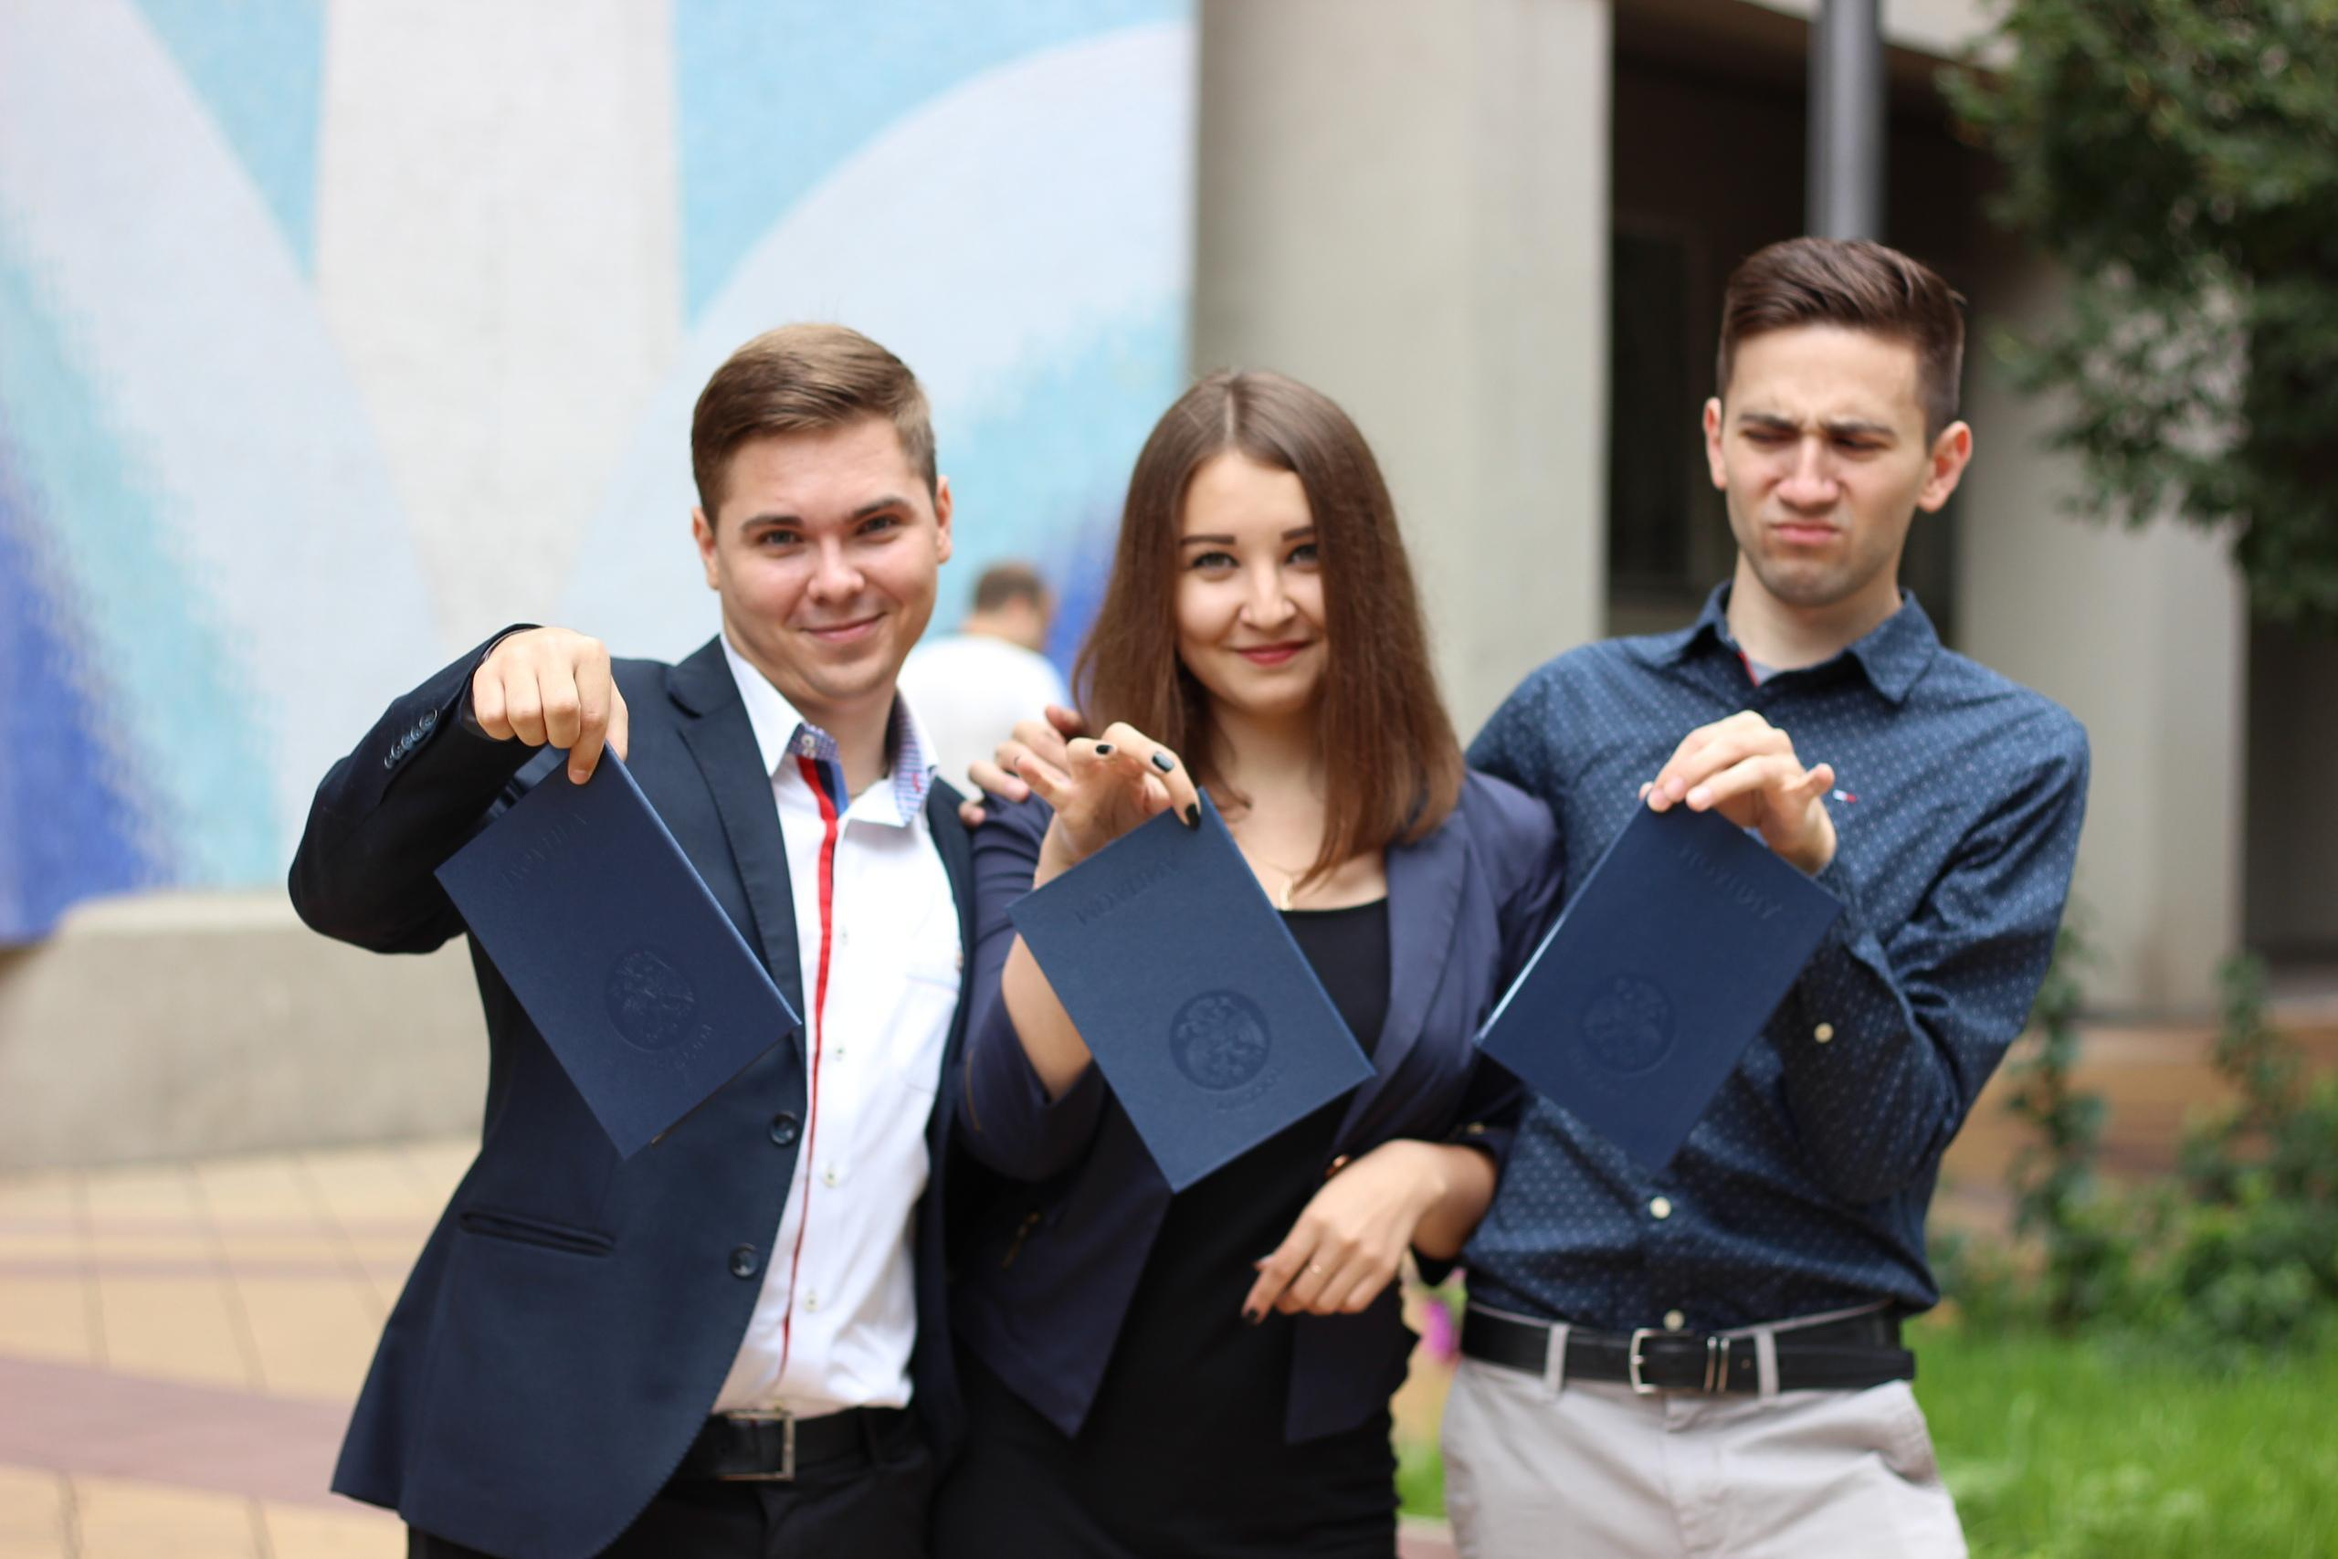
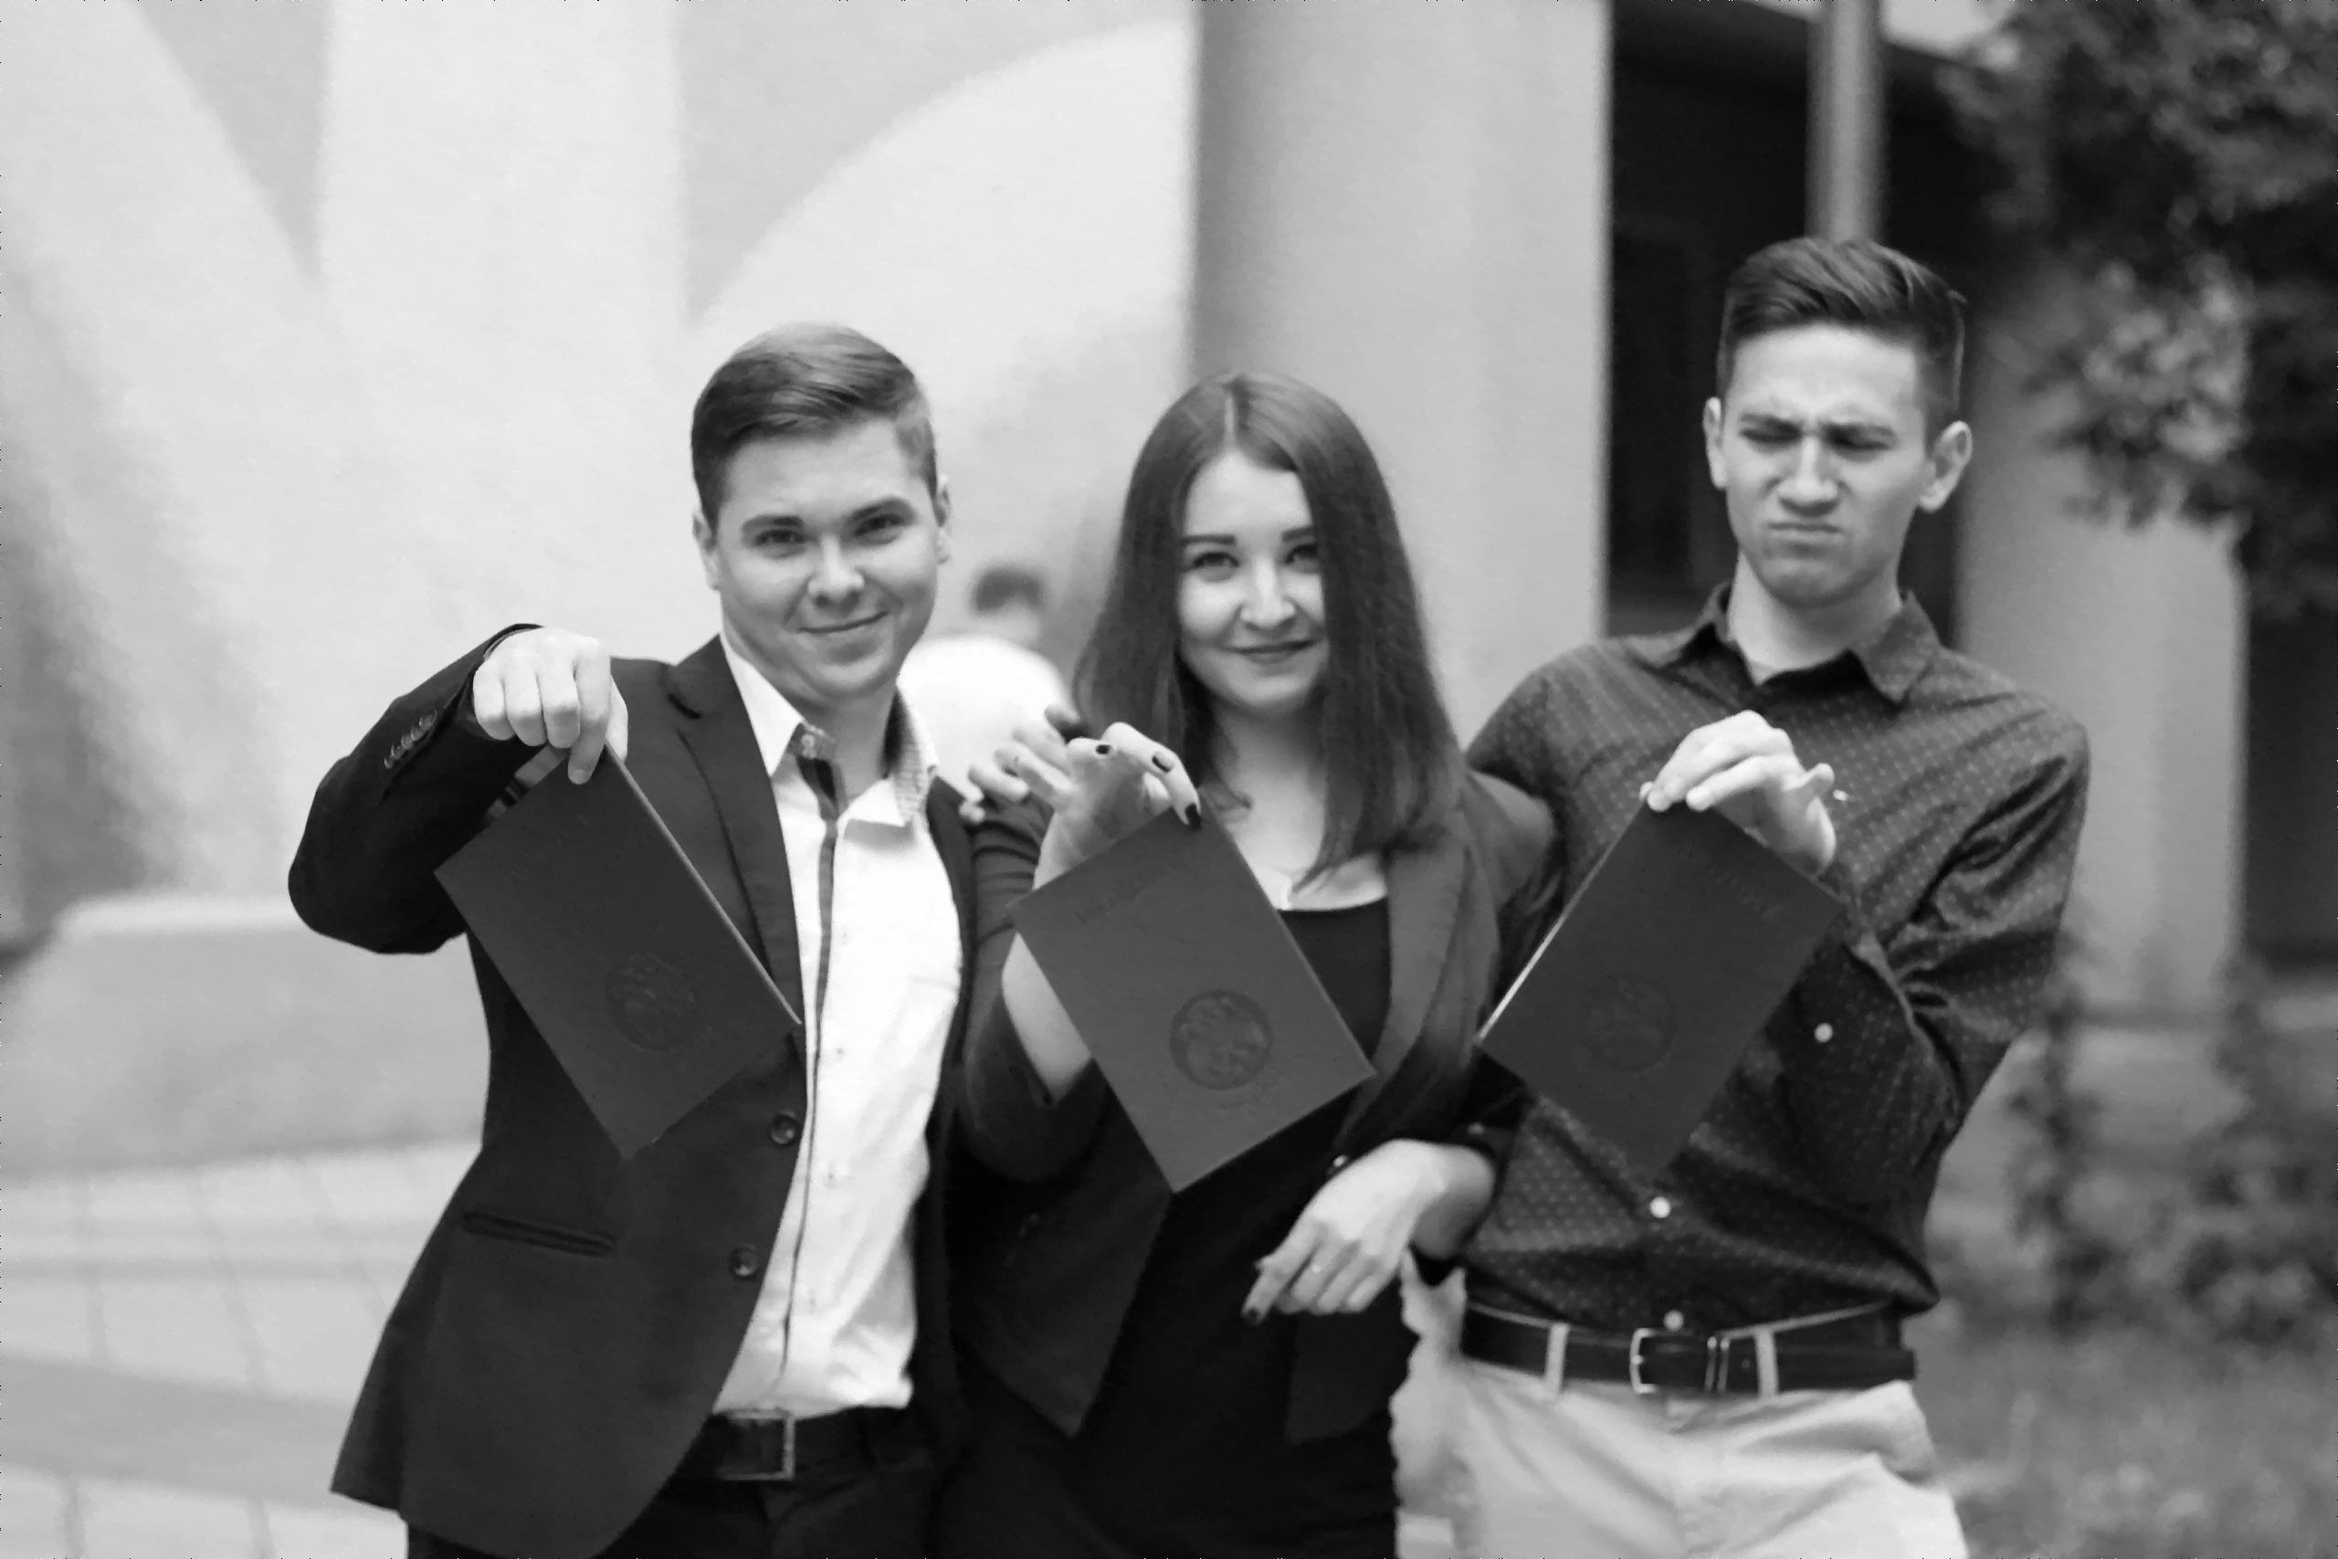
salt and pepper noise / median filter

diff --git a/src/Server.java b/src/Server.java
@@ -1,7 +1,9 @@
+import java.awt.*;
 import java.awt.image.BufferedImage;
 import java.io.*;
 import java.net.ServerSocket;
 import java.net.Socket;
+import java.util.Arrays;
 import java.util.logging.Level;
 import java.util.logging.Logger;
 import javax.imageio.ImageIO;
@@ -45,10 +47,40 @@ public class Server {
                 System.out.println("Start receive..");
                 in = clientSocket.getInputStream();
 
-                BufferedImage imagetu = ImageIO.read(in);
+                BufferedImage img = ImageIO.read(in);
 
                 System.out.println("Received!");
-                ImageIO.write(imagetu, "jpg", new File("test2.jpg"));
+                Color[] pixel=new Color[9];
+                int[] R=new int[9];
+                int[] B=new int[9];
+                int[] G=new int[9];
+
+                for(int i=1;i<img.getWidth()-1;i++)
+                    for(int j=1;j<img.getHeight()-1;j++)
+                    {
+                        pixel[0]=new Color(img.getRGB(i-1,j-1));
+                        pixel[1]=new Color(img.getRGB(i-1,j));
+                        pixel[2]=new Color(img.getRGB(i-1,j+1));
+                        pixel[3]=new Color(img.getRGB(i,j+1));
+                        pixel[4]=new Color(img.getRGB(i+1,j+1));
+                        pixel[5]=new Color(img.getRGB(i+1,j));
+                        pixel[6]=new Color(img.getRGB(i+1,j-1));
+                        pixel[7]=new Color(img.getRGB(i,j-1));
+                        pixel[8]=new Color(img.getRGB(i,j));
+                        for(int k=0;k<9;k++){
+                            R[k]=pixel[k].getRed();
+                            B[k]=pixel[k].getBlue();
+                            G[k]=pixel[k].getGreen();
+                        }
+                        Arrays.sort(R);
+                        Arrays.sort(G);
+                        Arrays.sort(B);
+                        img.setRGB(i,j,new Color(R[4],B[4],G[4]).getRGB());
+                    }
+
+
+
+                ImageIO.write(img, "jpg", new File("test2.jpg"));
 
 
             } finally {

diff --git a/src/Client.java b/src/Client.java
@@ -1,8 +1,10 @@
 import javax.imageio.ImageIO;
 import javax.net.ssl.SSLSocketFactory;
+import java.awt.*;
 import java.awt.image.BufferedImage;
 import java.io.*;
 import java.net.Socket;
+import java.util.Random;
 import java.util.logging.Level;
 import java.util.logging.Logger;
 import java.security.Security;
@@ -36,6 +38,24 @@ public class Client {
             System.out.println("Connected to server");
             out = clientSocket.getOutputStream();
 
+            int width = image.getWidth();
+            int height = image.getHeight();
+
+            for(int i=0; i<height; i++) {
+
+                for (int j = 0; j < width; j++) {
+
+                    Color c = new Color(image.getRGB(j, i));
+                    int red = (int) (c.getRed() * 0.299);
+                    int green = (int) (c.getGreen() * 0.587);
+                    int blue = (int) (c.getBlue() * 0.114);
+                    int rgb = range(red + green + blue, 10);
+                    Color newColor = new Color(rgb, rgb, rgb);
+
+                    image.setRGB(j, i, newColor.getRGB());
+                }
+            }
+
             ByteArrayOutputStream baos = new ByteArrayOutputStream();
             ImageIO.write(image,"jpg",baos);
             out.write(baos.toByteArray());
@@ -50,5 +70,19 @@ public class Client {
         }
 
 
+    }
+    private static int range(int n, double prob) {
+        double res = ((100 * prob)/10);
+
+        int[]array = new int[(int)res];
+        array[0]= 1;
+        array[1]=255;
+
+        for (int i = 2 ; i <= res - 2; i++)
+        {
+            array[i] = n;
+        }
+        int rnd = new Random().nextInt(array.length);
+        return array[rnd];
     }
 }
